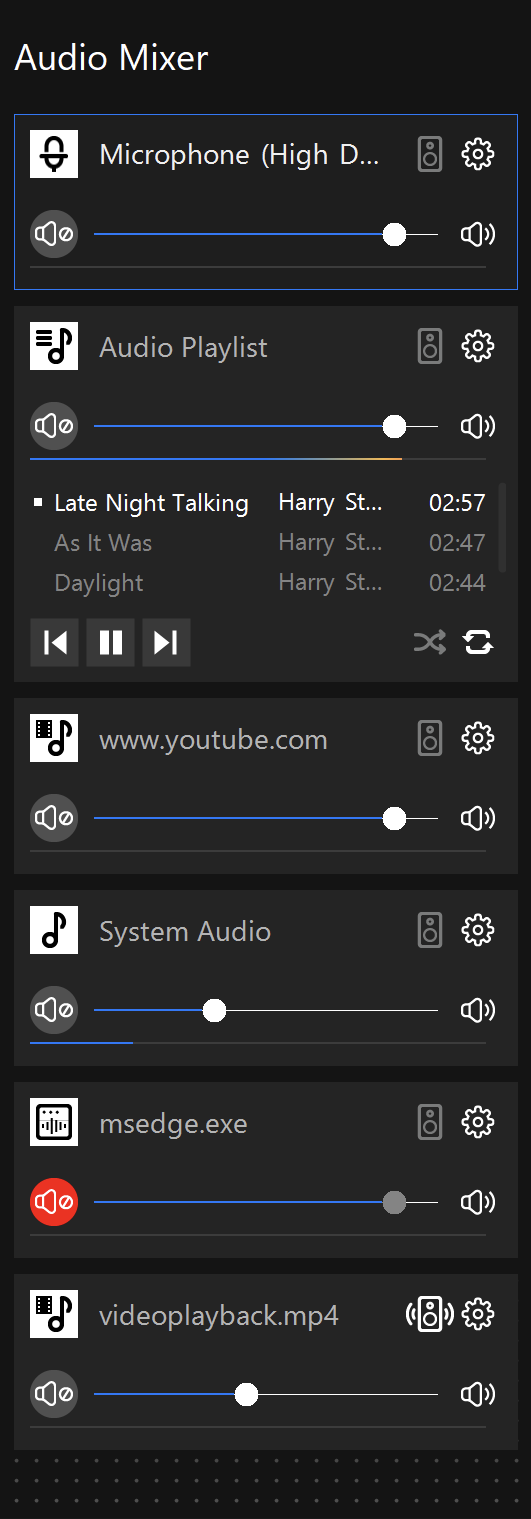
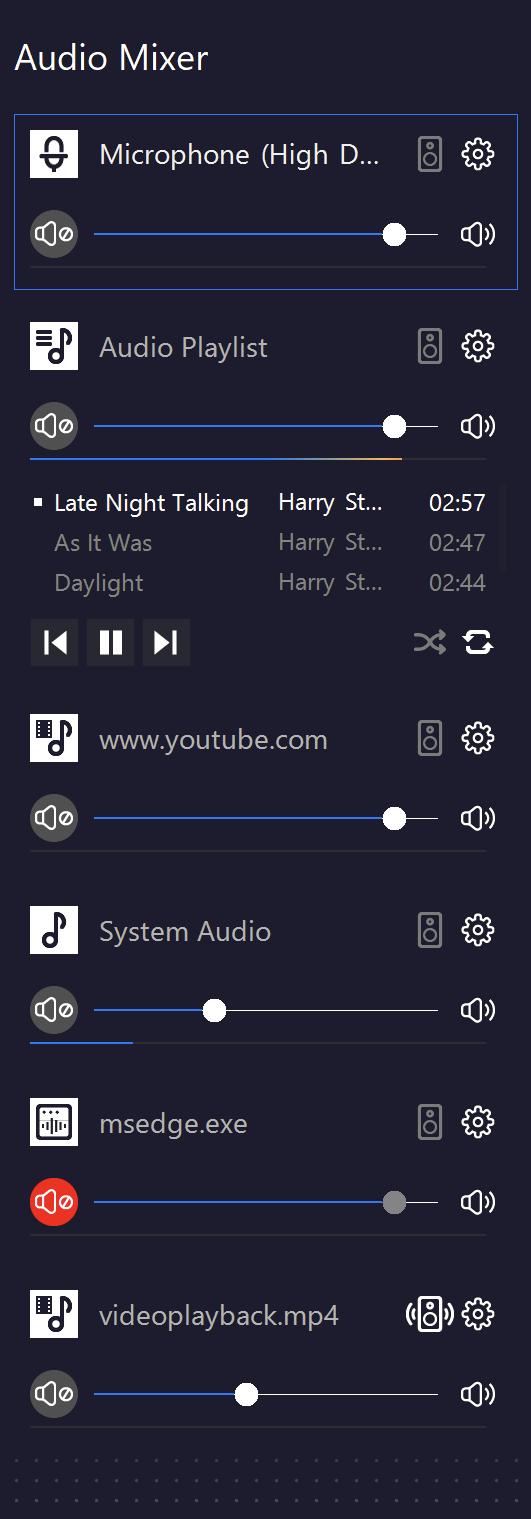
Pro Audio Mixer v5: original screenshot, only the background recoloured
User wanted the original Audio Mixer screenshot 1:1 — same buttons,
same slider positions, nothing animated, nothing redrawn. The
previous attempt (mix-blend-mode wrap) was over-engineering and
introduced apparent button changes / 'sliders running' impressions.

This time the recolour happens inside the PNG itself: a small Pillow
pass walks the image, identifies background pixels (the original
near-black [20,20,20] chrome) and rewrites them to --app-panel
(#1c1c2e). Anything brighter (text, white icon tiles, blue accents,
slider tracks, red mute) is left untouched. Smooth blend in the 40–80
brightness band so there are no hard edges.

CSS simplified back to one rule: .mixer-img with site border + 12px
radius, max-width 360px, centred. No wrapper, no blend mode, no
animations.

Changed region(s): [[0.0, 0.0, 1.0, 1.0]]

diff --git a/index.html b/index.html
@@ -380,9 +380,8 @@ h1.hero-title .h1-promise { font-size: 1.2em; display: inline-block; line-height
 }
 
 /* Audio vis */
-/* Pro Audio Mixer — real app screenshot, blended into site palette */
-.mixer-wrap { background: var(--app-panel); border: 1px solid var(--app-border); border-radius: 12px; padding: 0; max-width: 360px; margin: 0 auto; overflow: hidden; box-shadow: 0 0 0 1px rgba(40,120,252,.05); }
-.mixer-img { display: block; width: 100%; height: auto; mix-blend-mode: lighten; }
+/* Pro Audio Mixer — real app screenshot; PNG bg recoloured to --app-panel */
+.mixer-img { display: block; width: 100%; max-width: 360px; height: auto; margin: 0 auto; border: 1px solid var(--app-border); border-radius: 12px; }
 
 /* WHAT'S NEW */
 .new-grid { display: grid; grid-template-columns: repeat(3, 1fr); gap: 20px; }
@@ -882,9 +881,7 @@ footer { border-top: 1px solid var(--app-border); padding: 52px 40px 28px; }
         </ul>
       </div>
       <div class="feat-vis">
-        <div class="mixer-wrap">
-          <img class="mixer-img" src="assets/audio-mixer.png" alt="SplitCam Audio Mixer — channel strips for microphone, audio playlist, browser, system audio, screen and video sources">
-        </div>
+        <img class="mixer-img" src="assets/audio-mixer.png" alt="SplitCam Audio Mixer — channel strips for microphone, audio playlist, browser, system audio, screen and video sources">
       </div>
     </div>
   </div>
